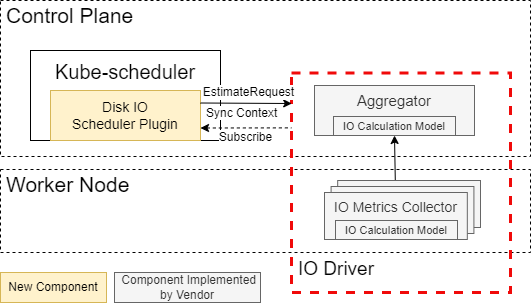
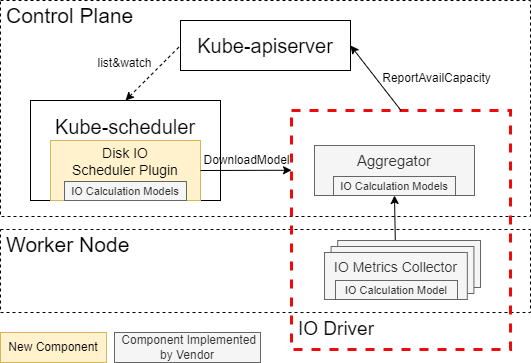
feed the telemetry data thru the API server route.

diff --git a/kep/624-disk-io-aware-scheduling/README.md b/kep/624-disk-io-aware-scheduling/README.md
@@ -53,24 +53,81 @@ The mathematical relationship between the disk’s IO BW capacity and the runnin
 
 ## Proposal
 
-The disk IO aware scheduler plugin would implement the filter, score and reserve hook points of the scheduler framework. At the filter stage, it would obtain each node’s available disk IO capacity from the IO Driver at run time, update the available disk IO capacity of each node in its local cache, and filter out nodes which do not have enough IO capacity from the node candidate list. At the score stage, it would prioritize the node candidates based on a scoring policy, such as most allocated policy. At the reserve stage it would notify the node IO Driver of the new pod so that the IO Driver can start collecting the disk IO metrics of this new pod.
+The disk IO aware scheduler plugin would implement the filter, score and reserve hook points of the scheduler framework. At startup, it obtains each node’s available disk IO capacity from the API server by listing and watching the [NodeDiskIOInfo](#crd) CR when it is created by the IO Driver, and updates the info in its local cache. At the filter stage, it filters out nodes which do not have enough IO capacity from the node candidate list. At the score stage, it would prioritize the node candidates based on a scoring policy, such as most allocated policy. At the reserve stage it will update the API server with a new reserved pod list. Since the node IO Driver is watching update of the reserved pod list, it will be informed of the newly created pod and start collecting the disk IO metrics of this new pod.
 
 ## Design Details
 
-The design includes the following key components: the disk IO scheduler plugin and its interfaces with the IO Driver.
-
+The design includes the following key components: the disk IO scheduler plugin and the CRD to interact with the IO Driver.
 <p align="center"><img src="images/key_components.png" title="Key components" width="600" class="center"/></p>
-The disk IO scheduler plugin communicates with the IO Driver to pass information on IO metrics collection context (e.g., reserved pod list), obtain a normalized IO BW for each new pod’s IO BW request, and retrieve updates on each disk’s normalized available IO capacity for making scheduling decisions.
+The disk IO scheduler plugin communicates with the IO Driver to download normalization functions for normalizing each new pod’s IO BW request, and retrieves updates on each disk’s normalized available IO capacity from the API sever for making scheduling decisions.
 
 The IO Driver, which is to be implemented by disk IO vendors, comprises three components.
 
+### CRD
+
+A new Custom Resource Definition (CRD) will be created. This new CRD has two key fields. One is the `ReservedPods` in its spec and the other is `AllocatableBandwidth` in its status. The `ReservedPods` holds the reserved pod list on one node and the `AllocatableBandwidth` holds the available disk IO capacity on one node. The IO Driver is responsible for updating the available disk IO capacity at runtime and watching the reserved pod list. Concurrently, the scheduler plugin would manage the reserved pod list, keep track of the available disk IO capacity and update it in its local cache. `NodeDiskIOInfo` is namespace scoped. 
+
+``` go
+type NodeDiskIOInfo struct {
+	metav1.TypeMeta   
+	metav1.ObjectMeta 
+
+	Spec   NodeDiskIOInfoSpec   
+	Status NodeDiskIOInfoStatus 
+}
+type NodeDiskIOInfoSpec struct {
+	NodeName     string                
+	ReservedPods []string // a slice of reserved pod uids
+}
+// NodeDiskIOStatusInfoStatus defines the observed state of NodeDiskIOStatusInfo
+type NodeDiskIOInfoStatus struct {
+	ObservedGeneration   int64                                 
+	AllocatableBandwidth map[string]DeviceAllocatableBandwidth // the key of the map the device id
+}
+type DeviceAllocatableBandwidth struct {
+	// Device's name
+	Name string 
+	// Device's IO status
+	Status BlockIOStatus
+}
+type BlockIOStatus struct {
+	// Normalized total IO throughput capacity 
+	Total float64 
+	// Normalized read IO throughput capacity 
+	Read float64 
+	// Normalized write IO throughput capacity 
+	Write float64 
+}
+```
+A sample CR is listed below:
+``` yaml
+apiVersion: ioi.intel.com/v1
+kind: NodeDiskIOInfo
+metadata:
+  generation: 3
+spec: # scheduler updates spec
+  nodeName: workerNode
+  reservedPods:
+  - 7f69dbf7-f6e3-4434-9be8-fca2f8a1543d # pod uid
+  - 8f69dbf7-f6e3-4434-9be8-fca2f8a1543d
+status: # IO Driver updates status
+  observedGeneration: 3
+  allocatableBandwidth:
+    INT_PHYF922500U3480BGN: # device id
+      name: /dev/sda 
+      total: 2200 
+      read: 1100 
+      write: 1100 
+    INT_PHYF822500U3480BGN: ...
+```
+
 ### IO Metrics Collector
 
-The IO Metrics Collector, which runs on each worker node, acts as an IO metric collector and analyzer. It watches the actual disk IO utilization of each pod, calculates the disk’s available IO capacity based on each workload’s real-time usage and characteristics using the IO Calculation Model and reports the node’s real-time available disk IO capacity to the aggregator when it is smaller than what is saved in the scheduler plugin’s cache. Since different disk vendors could have different ways of collecting metric, this component is outside the scope of the scheduler plugin’s implementation.
+The IO Metrics Collector, which runs on each worker node, acts as an IO metric collector and analyzer. It watches the actual disk IO utilization of each pod, calculates the disk’s available IO capacity based on each workload’s real-time usage and characteristics using the IO Calculation Model, and reports the node’s real-time available disk IO capacity to the aggregator when some pods are consuming more IO resource than they initially requested. Since different disk vendors could have different ways of collecting metric, this component is outside the scope of the scheduler plugin’s implementation.
 
 ### Aggregator
 
-The aggregator consolidates the IO metrics from each worker node, reports a consolidated list of real-time available disk IO capacity to the scheduler plugin. It is also responsible for converting each new pod’s disk IO BW request to a normalized value using the disk’s IO Calculation Model so as to match the disk’s normalized available IO capacity. Since the normalization function is disk type and vendor specific, this component is outside the scope of the scheduler plugin’s implementation.
+The aggregator consolidates the IO metrics which includes the real-time available disk IO capacity from multiple worker nodes and reports them to the API server. 
 
 ### IO Calculation Model
 
@@ -79,15 +136,61 @@ The IO Calculation Model is responsible for converting the disk’s available IO
 ### Disk IO Scheduler Plugin
 
 We leverage the K8s scheduler framework to add the disk IO scheduler plugin.
-When the scheduler plugin starts, it subscribes to the IO Driver with a long streaming connection. The IO Driver updates the scheduler plugin about each node disk’s normalized available IO capacity and the scheduler plugin stores the info in the plugin’s local cache. We thought about using CRD mechanism before. But going through the CRD route, it has two drawbacks: 
-1. In the pod scheduling flow, the disk IO scheduler plugin needs to pass the disk IO info specified in the annotation of the pod spec to the vendor-specific IO driver and get back a normalized disk IO BW value. Using CRD to support this bi-directional communication would involve creating two CRDs and two watches, which introduces long latency to the pod scheduling flow. 
-2. A node's disk IO available capacity would change dynamically upon the workloads' real-time IO access characteristics such as block size and IO read/write ratio. If we choose the CRD route, the real-time disk IO available capacity update will inject too much traffic into the API server and degrade the API server's performance. Using a direct communication channel between the disk IO scheduler plugin and the vendor-specific IO driver greatly helps to mitigate these two issues. 
+When the scheduler plugin starts, it loads the normalization functions. Different types of disks could have different normalization functions. The normalization functions for various disk models can be configured through a `ConfigMap`. It includes the vendor name, disk model and the url to download the library from the IO Driver. When the normalization functions are downloaded from the IO driver, the scheduler plugin validates their signatures to prevent the library from undetected changes and stores the functions in its local cache.
+``` yaml
+apiVersion: v1
+kind: ConfigMap
+metadata:
+  name: normalization-func
+  namespace: default
+data:
+  diskVendors:|
+  [{"vendorName":"Intel", "model":"P4510", "url": "https://access-to-io-driver"}]
+```
+The normalization functions must implement the interface below to customize their own normalization methods.
+```
+type Normalizer interface {
+	Name() string
+	EstimateRequest(ioRequest string) string
+}
+```
+Here is a sample implementation.  
+``` go
+type normalizer struct {}
+type IORequest struct {
+  rbps string
+  wbps string
+  blockSize string
+}
 
+func (n normalizer) Name() string {
+	return "Intel P4510 NVMe Disk"
+}
+
+// ioRequest example: {"rbps": "30M", "wbps": "20M", "blocksize": "4k"}
+func (n normalizer) EstimateRequest(ioRequest) string {
+  var req  = &IORequest{}
+  _ = json.Unmarshal([]byte(ioRequest), req)
+  resp, _ := n.normalize(req)
+  normalized, _ := json.Marshal(resp)
+  return normalized
+}
+
+// customized normalization method
+func (n normalizer) normalize(ioRequest *IORequest) (*IORequest, error) {
+  return &IORequest{
+    rbps: ioRequest.rbps * coefficientA,
+    wbps: ioRequest.wbps * coefficientB,
+  }, nil
+}
+```
+
+ The IO Driver updates each node disk’s normalized available IO capacity to the API server and the scheduler plugin watches the info through the `NodeDiskIOInfo` CR and stores it in the plugin’s local cache. 
 The disk IO scheduler plugin consists of the following parts.
 
 #### Filter Plugin
 
-During the filter phase, the scheduler plugin sends the PodSpec with a disk IO BW request (as shown below) to the IO Driver and gets back a normalized disk IO BW needed by this POD. It then loops through each node in the candidate node list and checks this needed disk IO request of the POD against each node’s available disk IO capacity saved in the local cache to generate an updated candidate list.
+During the filter phase, the scheduler plugin passes the PodSpec with a disk IO BW request (as shown below) to the corresponding normalization function and gets back a normalized disk IO BW needed by this POD. It then loops through each node in the candidate node list and checks this needed disk IO request of the POD against each node’s available disk IO capacity saved in the local cache to generate an updated candidate list.
 
 ``` yaml
 apiVersion: v1
@@ -124,64 +227,10 @@ $$ score = {R \over T} $$
 
 #### Reserve Plugin
 
-During the reserve phase, the scheduler plugin updates the selected node’s available disk IO capacity by deducting the pod’s needed disk IO resource. In addition, it adds the pod to the ReservedPods list, tags the list with a Generation, and then notifies the IO Driver of the new ReservedPods list. The Generation, similar to the Kubernetes’s [ResourceVersion](https://kubernetes.io/docs/reference/using-api/api-concepts/#resource-versions), ensures that only the update on the latest generation ReservedPod list is saved to the scheduler plugin’s cache.
+During the reserve phase, the scheduler plugin updates the selected node’s available disk IO capacity by deducting the pod’s needed disk IO resource. In addition, it adds the pod to the ReservedPods list, tags the list with a Generation, updates the new ReservedPods list to the CR in the API server and then the IO Driver which is watching the CR would be notified of the change. The Generation, similar to the Kubernetes’s [ResourceVersion](https://kubernetes.io/docs/reference/using-api/api-concepts/#resource-versions), ensures that only the update on the latest generation ReservedPod list is saved to the scheduler plugin’s cache.
 
 Whenever there is any change to the IO metric collection context, the Generation increases by 1. If the IO Driver reports data based on an older generation than what is saved in the scheduler plugin’s cache, the update will be discarded.
 <p align="center"><img src="images/reserve.png" title="Reserve Phase" width="600" class="center"/></p>
-The API protocol between the disk IO scheduler plugin and the IO Driver is outlined below:
-
-``` go
-service IODriver {
-
-    // EstimateRequest returns the normalized IO request using the IO Calculation model
-    rpc EstimateRequest (EstimateRequestRequest) returns (EstimateRequestResponse);
-
-    // Subscribe returns the runtime node’s available IO capacity
-    rpc Subscribe (Empty) returns (stream NodeIOStatuses);
-
-    // SyncContext synchronizes nodes' IO metrics collection context with the aggregator
-    rpc SyncContext (SyncContextRequest) returns (Empty);
-
-}
-
-message Empty {
-
-}
-
-message EstimateRequestRequest {
-
-    // request in json format
-    string io_request = 1;
-
-}
-
-message EstimateRequestResponse {
-
-    NodeIOBandwidth io_estimate = 1;
-
-}
-
-message NodeIOStatuses {
-
-    // The key represents the node name
-    map<string, NodeIOBandwidth> node_io_bw = 1;
-
-}
-
-message SyncContextRequest {
-
-     // The key represents the node name, while the value represents the IO metrics collection context which is in json format
-     map<string, string> context = 1;
-
-}
-
-message NodeIOBandwidth {
-
-     // The key represents the resource name, while the value represents the normalized disk IO request. The format of the value follows the definition of resource.Quantity in Kubernetes
-      map<string, string> io_bandwidth = 1;
-
-}
-```
 
 ### Test Plan
 
